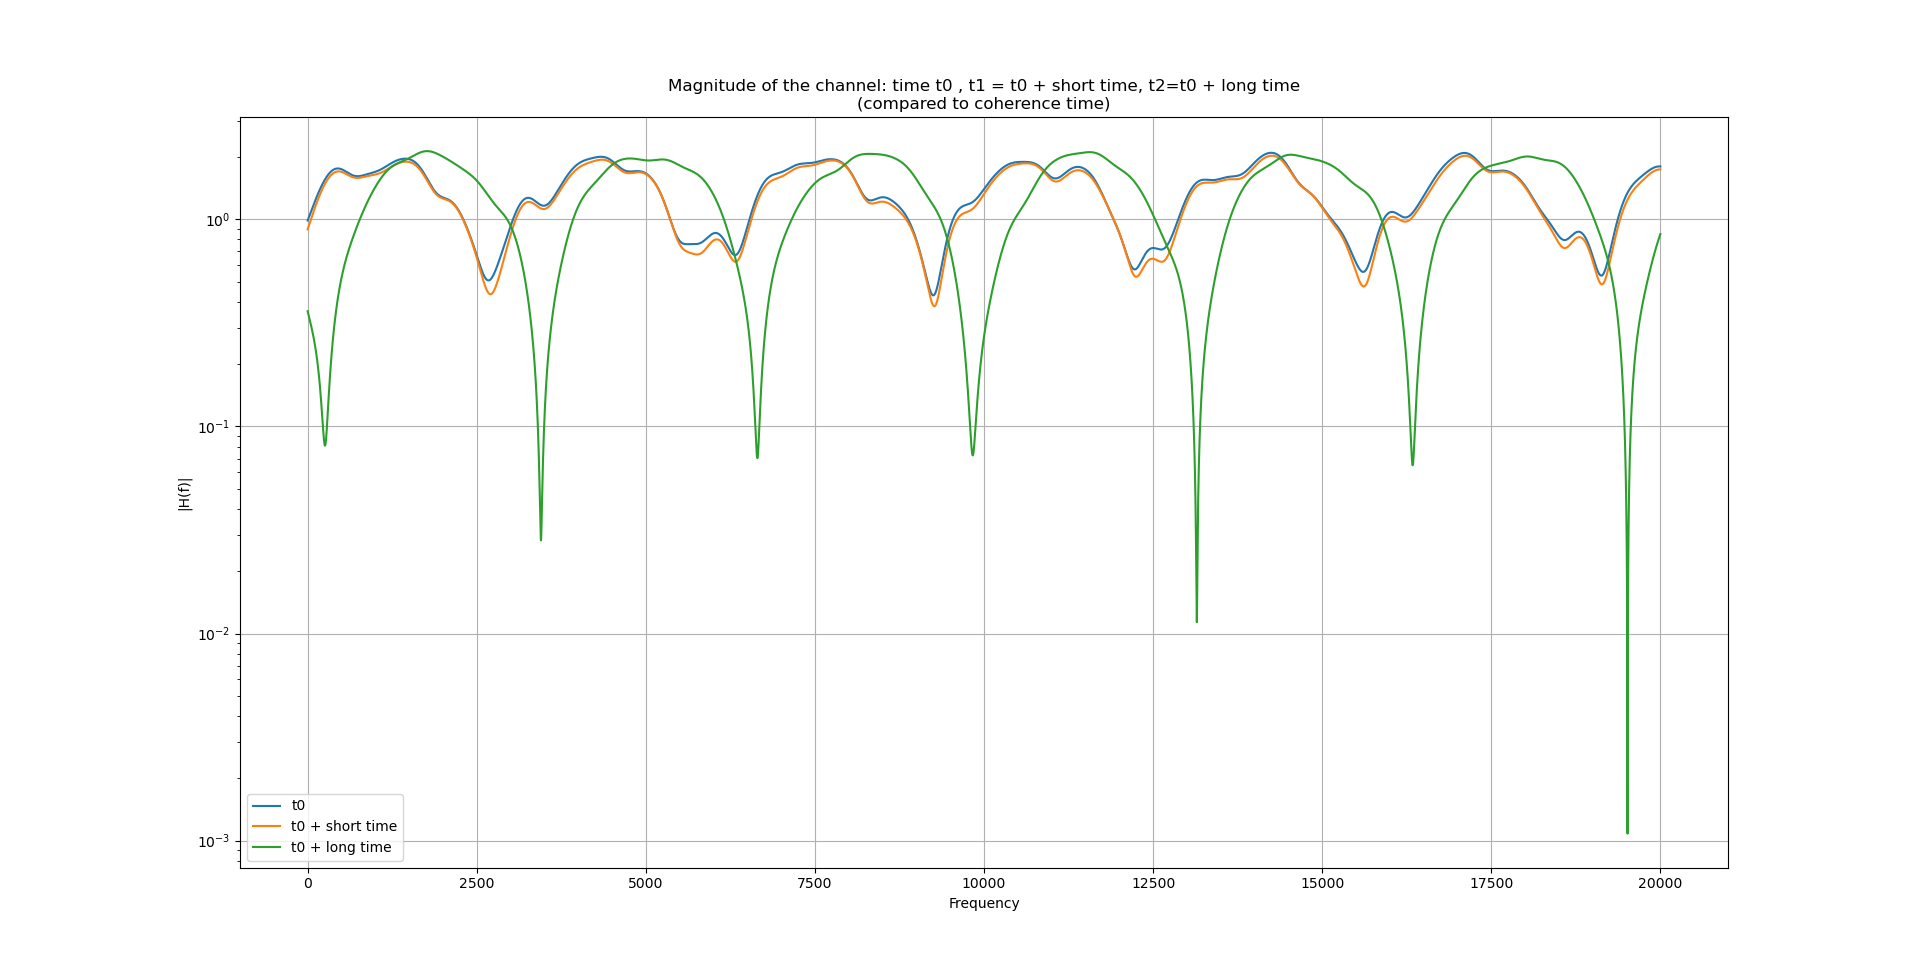
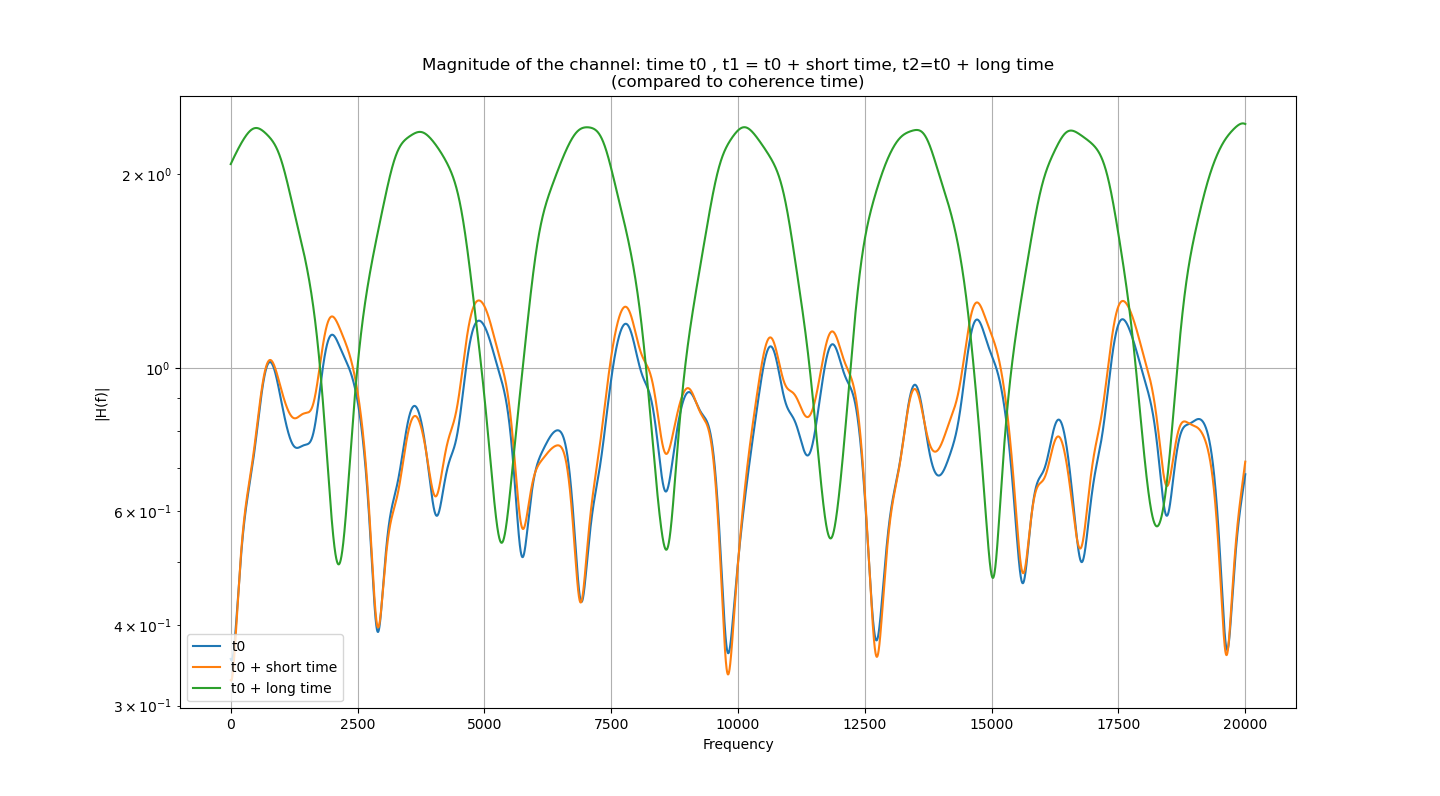
added results

diff --git a/Lecture_7_Ex1.py b/Lecture_7_Ex1.py
@@ -5,8 +5,8 @@ import helpers as hlp
 def main():
 
     # jaked calculation
-    V = 30
-    fc = 2.5e9
+    V = 50
+    fc = 2.4e9
     f_max = fc*V/3e8
     fs = f_max*40
     FFT_size = 8192
